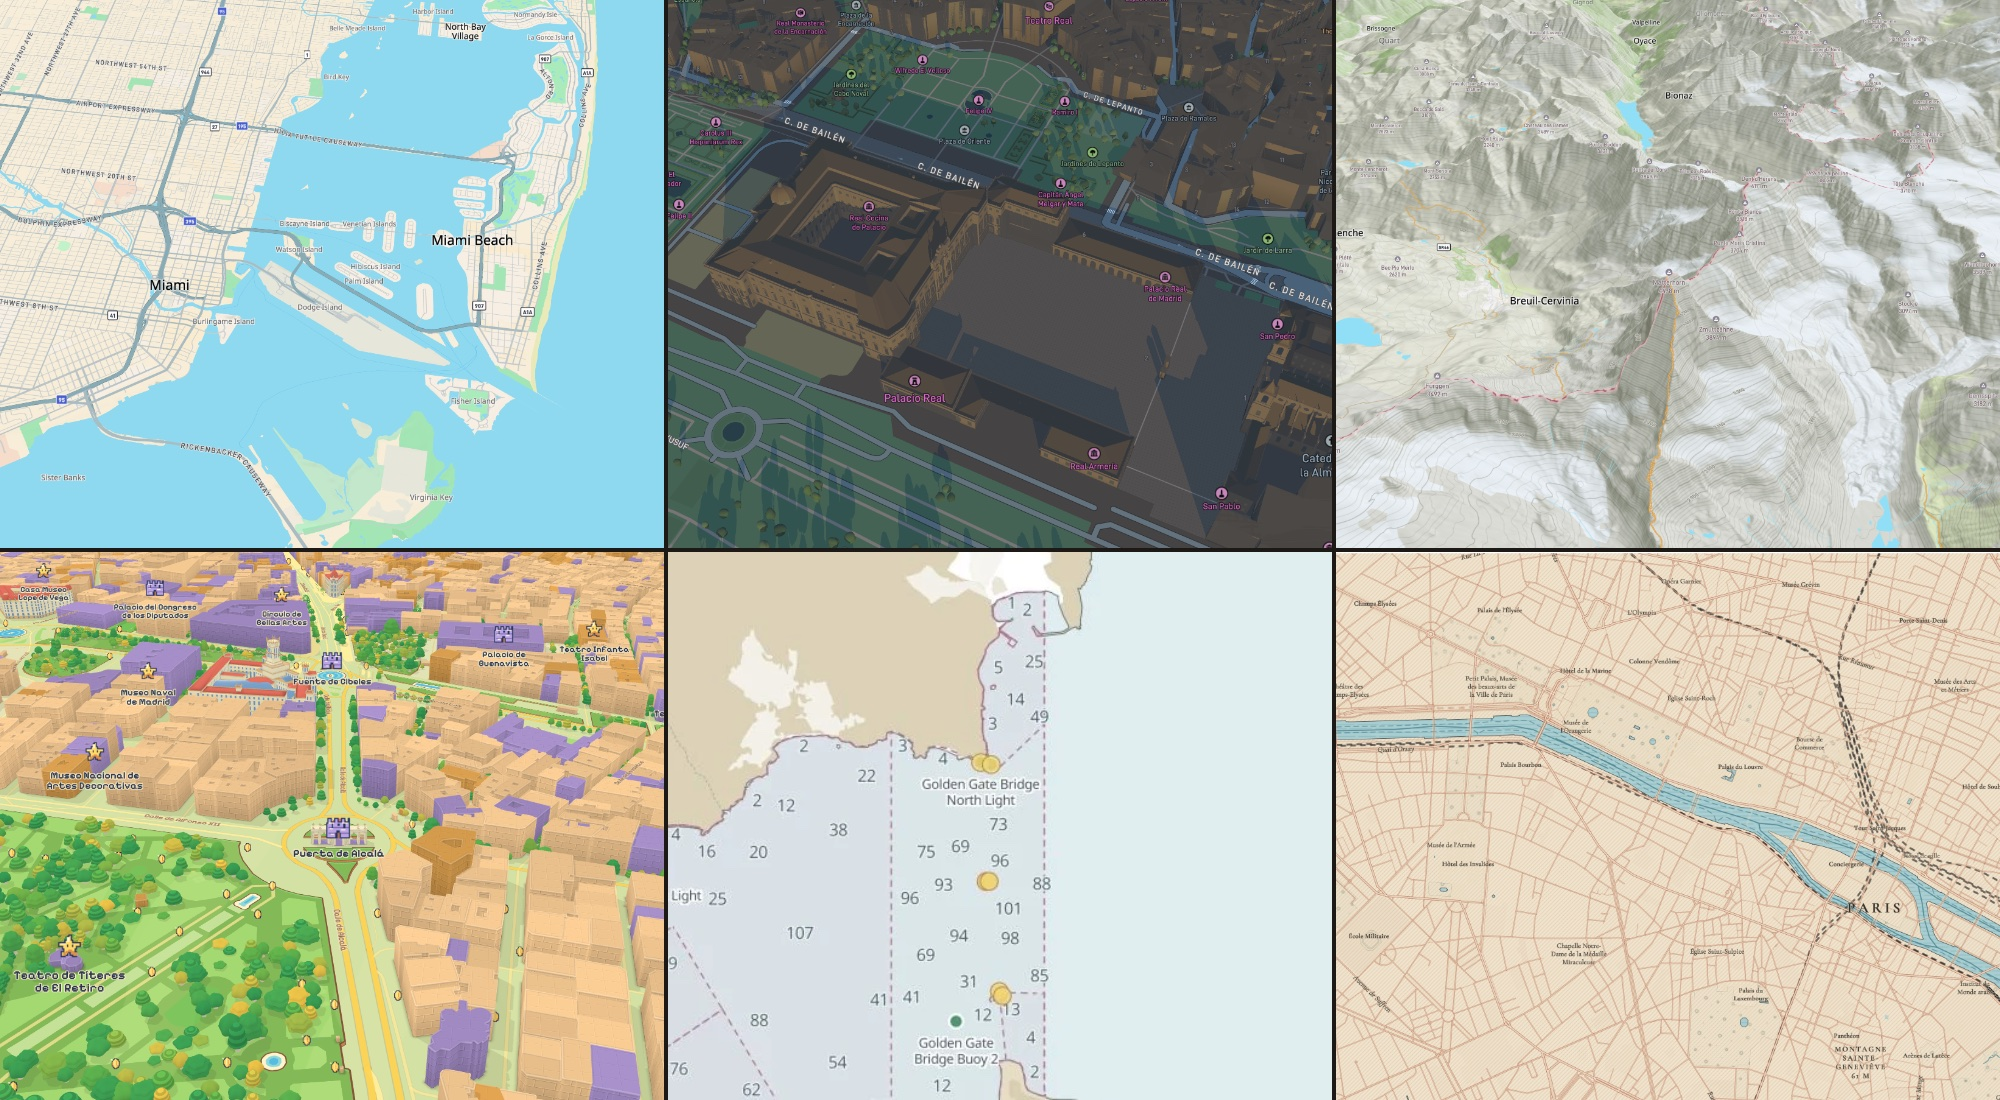
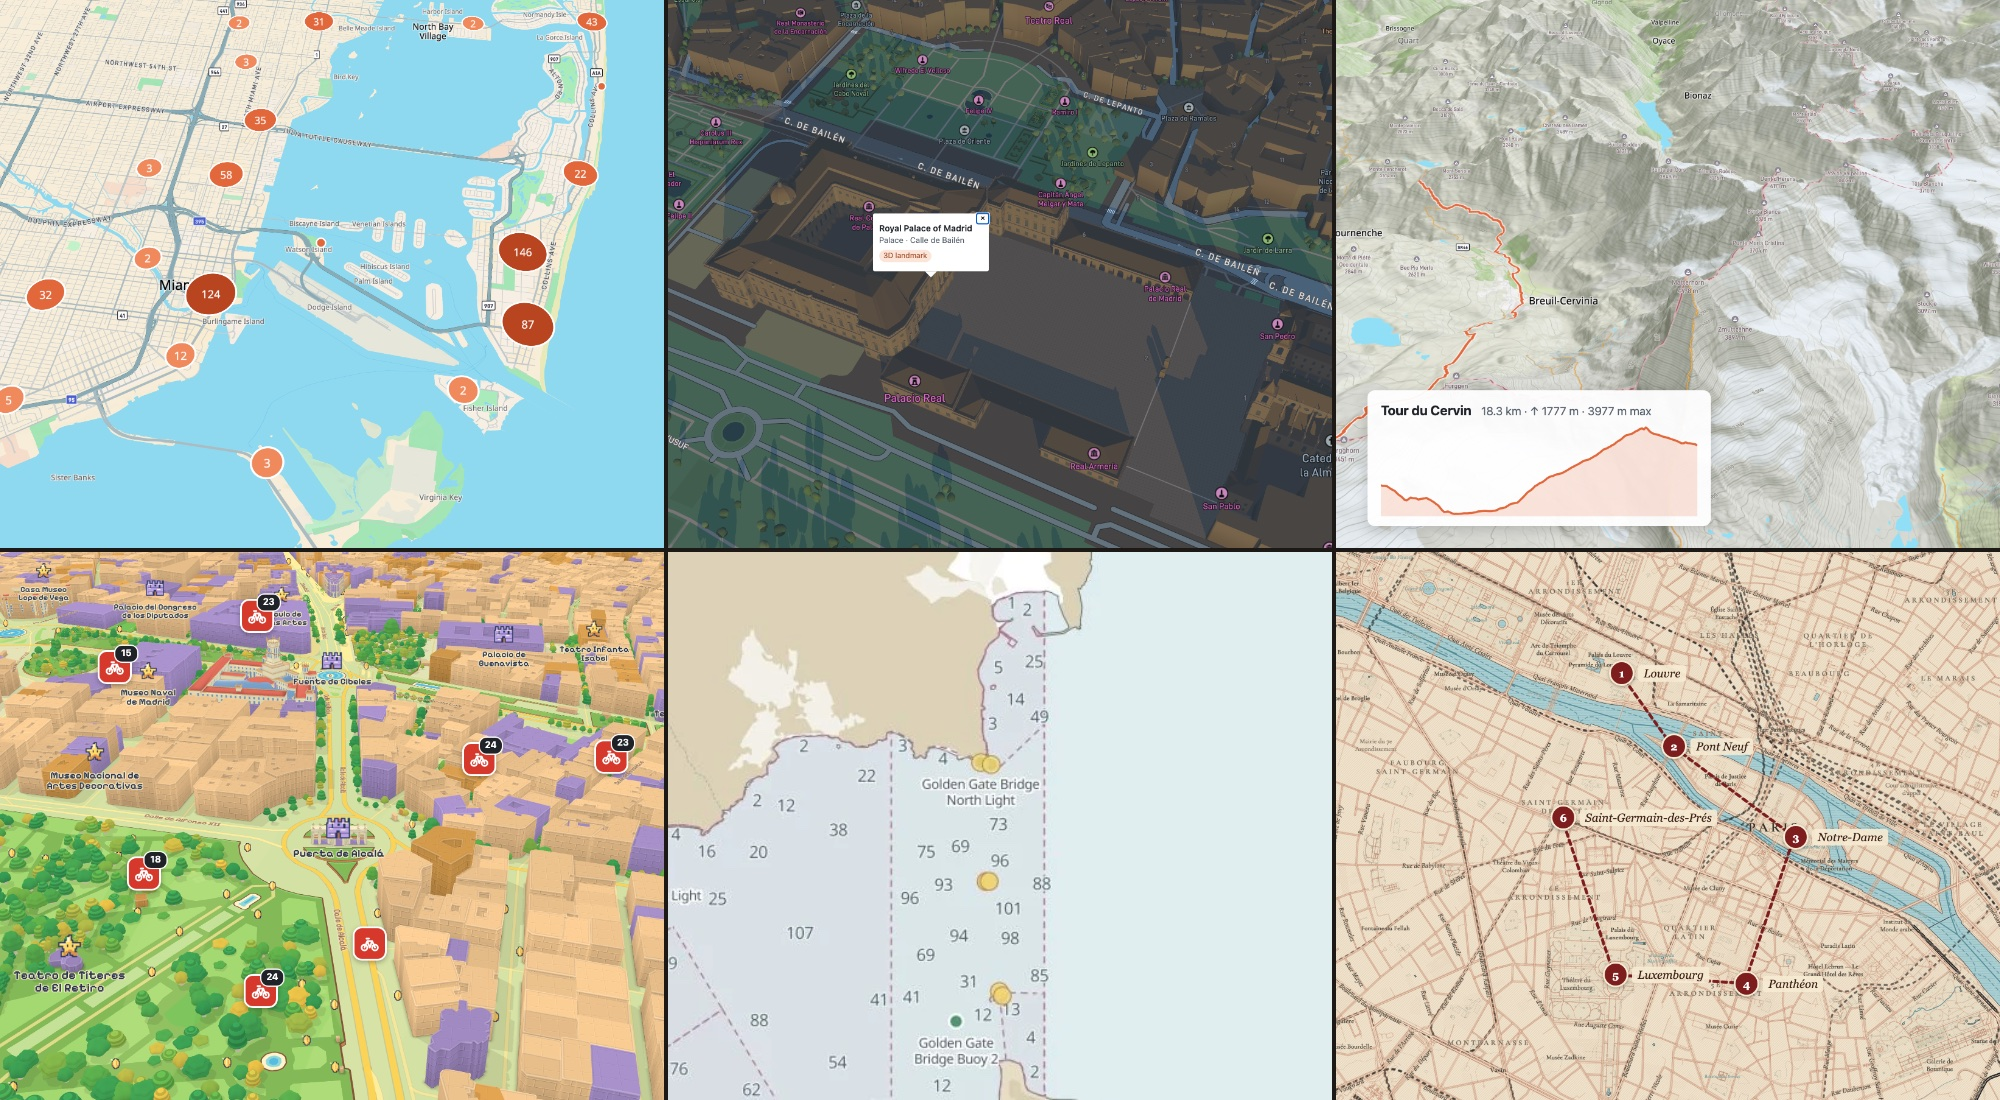
docs: show map functionality in the README collage

diff --git a/README.md b/README.md
@@ -19,15 +19,15 @@ design in one `tileflow.config.ts`.
 
 [Documentation](https://tileflow.dev/docs) · [Gallery](https://tileflow.dev/gallery) · [Quickstart](https://tileflow.dev/docs/get-started/quickstart)
 
-[![Six maps made with the Tileflow SDK: Miami's streets and bay, the Royal Palace of Madrid in 3D at dusk, the mountains around the Matterhorn in 3D, a playful 3D map around Madrid's Puerta de Alcalá, a nautical chart near the Golden Gate, and an engraved-style map of Paris.](.github/assets/showcase.jpg)](https://tileflow.dev/gallery)
+[![Six maps made with the Tileflow SDK: clustered restaurants over Miami's streets, a popup on the Royal Palace of Madrid in 3D at dusk, a trail with its elevation profile around the Matterhorn, bike-station markers on a playful 3D map of Madrid, a nautical chart near the Golden Gate, and a numbered walking tour on an engraved-style map of Paris.](.github/assets/showcase.jpg)](https://tileflow.dev/gallery)
 
 **Made with the Tileflow SDK** (left to right, top to bottom):
-[Streets](https://tileflow.dev/gallery?map=streets) in Miami;
-Streets with 3D buildings and landmark models at the Royal Palace of Madrid, at dusk;
-[Outdoors](https://tileflow.dev/docs/map-design/basemaps) over [3D terrain](https://tileflow.dev/docs/map-design/terrain-and-globe) around the Matterhorn;
-the [Super Tile World](https://tileflow.dev/gallery?map=super-tile-world) community map at Madrid's Puerta de Alcalá;
+[clustered points](https://tileflow.dev/docs/examples/cluster-points) over [Streets](https://tileflow.dev/gallery?map=streets) in Miami;
+a [popup](https://tileflow.dev/docs/examples/show-a-popup-on-click) on the Royal Palace of Madrid with [3D landmarks](https://tileflow.dev/docs/examples/show-3d-landmarks), at dusk;
+a trail and its elevation profile, read from [3D terrain](https://tileflow.dev/docs/map-design/terrain-and-globe), on [Outdoors](https://tileflow.dev/docs/map-design/basemaps) around the Matterhorn;
+[custom markers](https://tileflow.dev/docs/examples/use-custom-marker-content) for bike stations on the [Super Tile World](https://tileflow.dev/gallery?map=super-tile-world) community map in Madrid;
 soundings, buoys, and lights near the Golden Gate (not for navigation);
-the [Baedeker](https://tileflow.dev/gallery?map=baedeker) community map of Paris.
+a walking tour drawn as a [dashed line](https://tileflow.dev/docs/examples/draw-a-dashed-line) on the [Baedeker](https://tileflow.dev/gallery?map=baedeker) community map of Paris.
 Map data © [OpenStreetMap contributors and other sources](https://tileflow.dev/copyright).
 
 ## Create your first map
